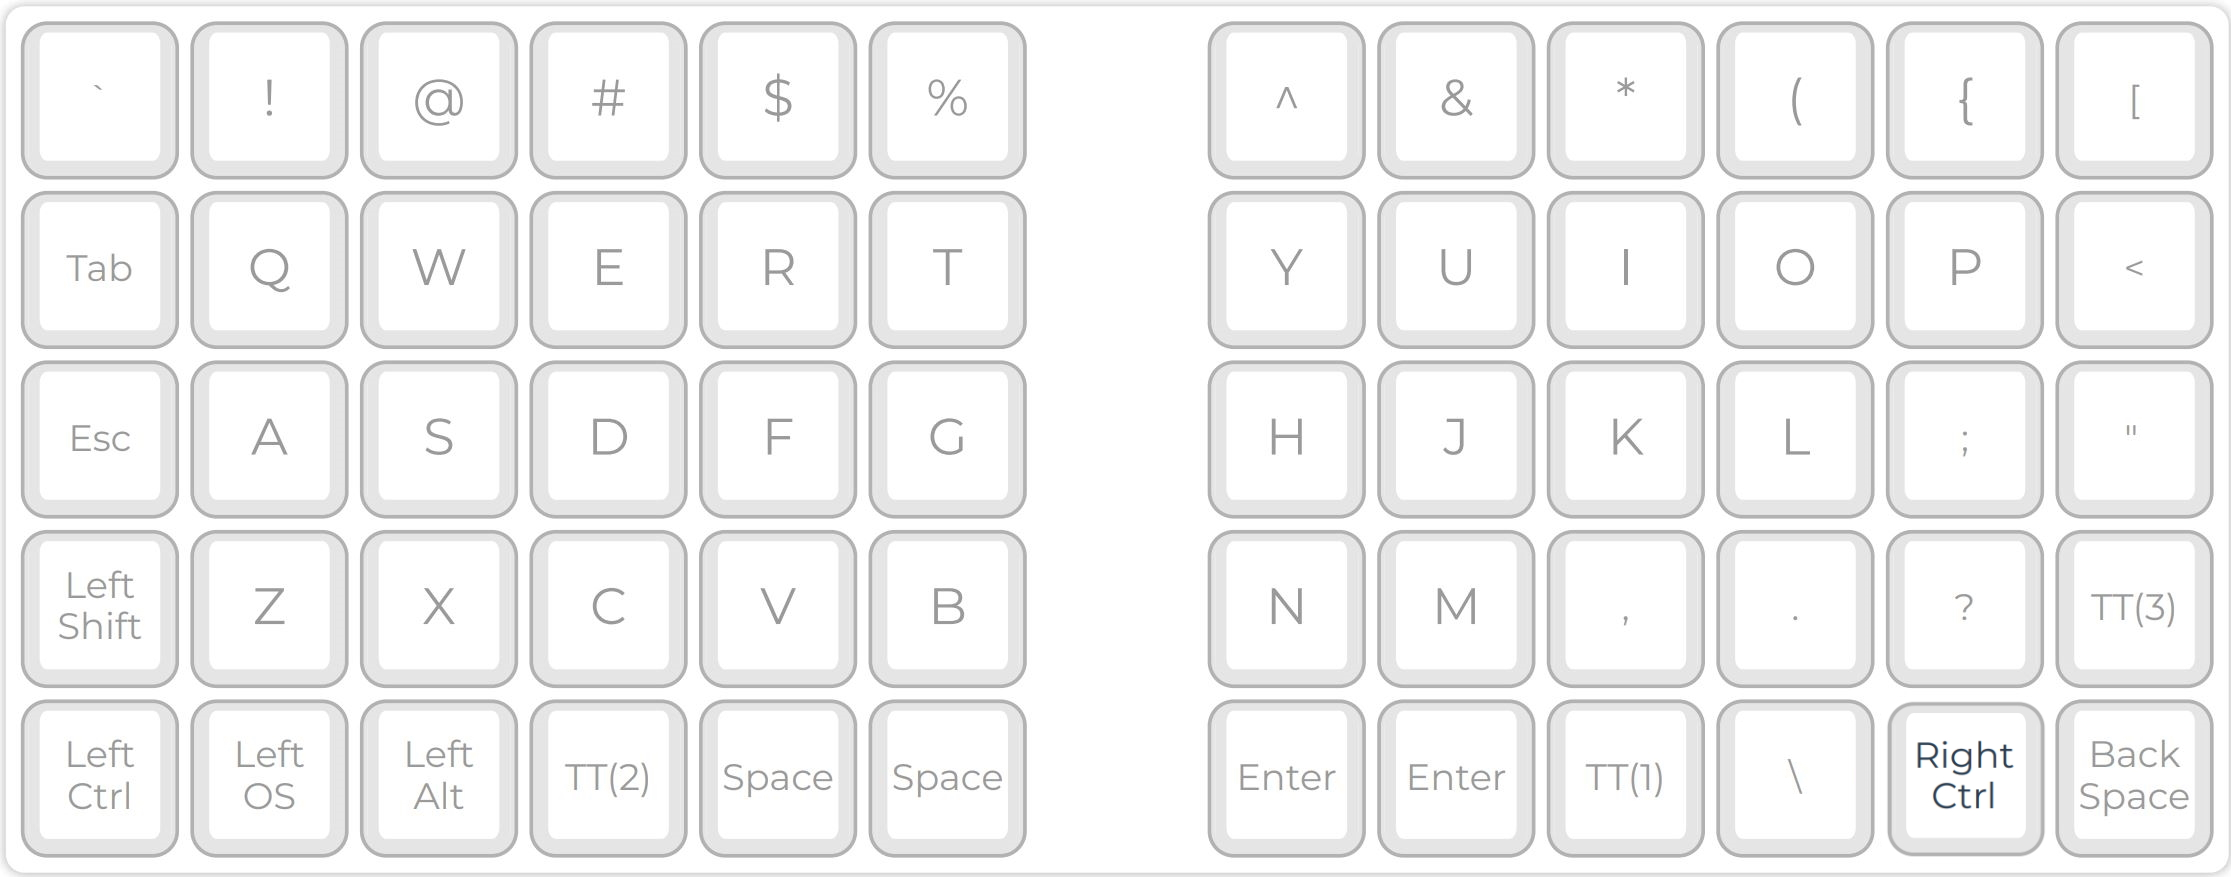
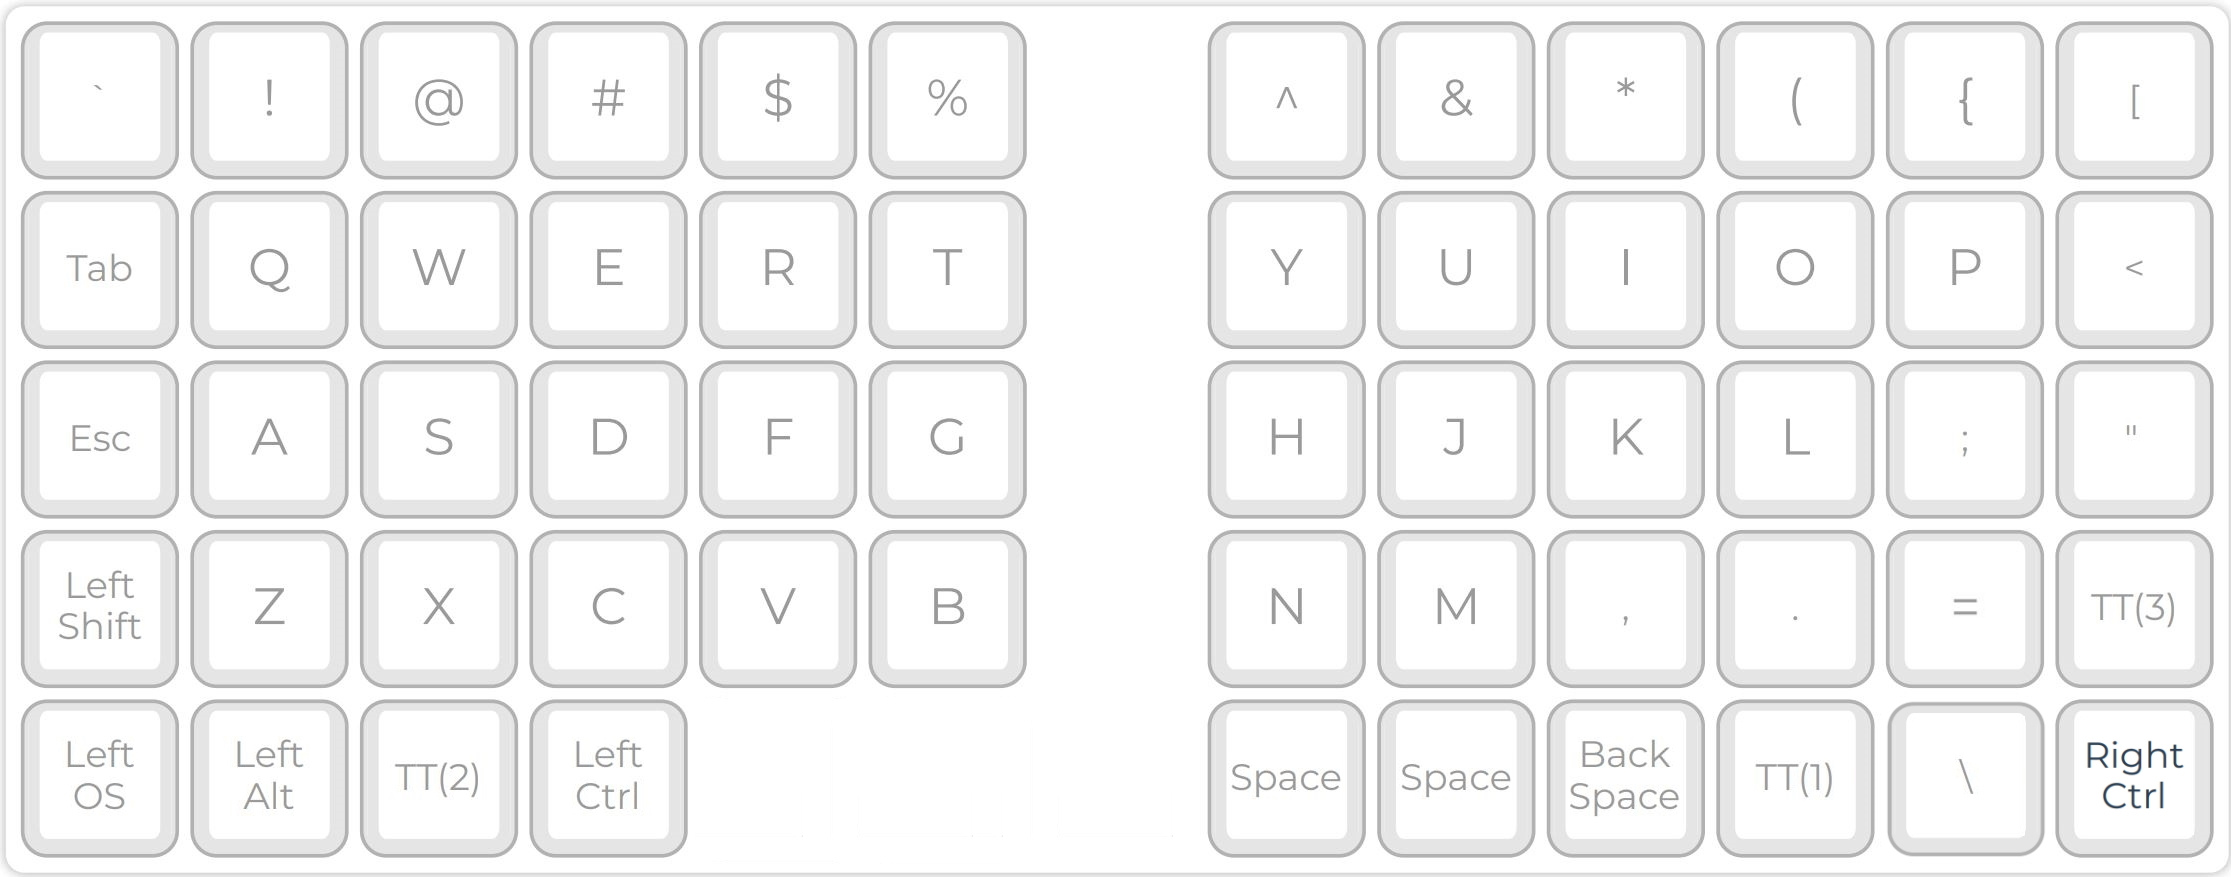
[Diary] Notes on release v1.1

diff --git a/qibord/captains_log/27-September-2020.md b/qibord/captains_log/27-September-2020.md
@@ -1,0 +1,41 @@
+# Notes
+
+It has been about a month since I started using the _qibord_ and a few design flaws start to show up already.
+
+I am still slower than on a regular keyboard but the overall ergonomics of it is awesome. I am not using it much since my Armenian layout is off and I have to switch to the old keyboard quite often, which is not that comfortable. I still use it daily thou. Here are some of the things that will be changed with the next major release.
+
+## Thumb motions are strained
+
+_qibord_ heavily relies on the thumb but with the current version, the motion of the thumb is mighty uncomfortable. The movement of the thumb is directed inwards right under the palm, which is hard. The outward motion, that is much easier, is not present at all. For the next version I plan to shift the keys on the lowest line towards each other and curve down so they can still be pressed by thumbs but via the outwards motion. The shape of it should roughly look something like this:
+
+![qibord_v2](images/qibord_v2.jpg)
+
+## The keys definitely need to be lubed
+
+They do, since currently you can feel too much mechanical resistance, which makes the key presses too cranky. This is not the key press experience, we have been fighting for!
+
+## The layout
+
+As I use the _qibord_, I get a better understanding of what keys need to be where. The layout has undergone one major update so far, and is available as [v1.1](../layouts/v1.1/layout.pdf).
+
+Two layers have been modified, along with the lowest rows on both sides.
+
+### The default layer
+
+I have moved the `=` key to the default row since it is impossible to comfortably code when the key has to be accessed via a **MOD** key. It replaced the `?` key, and the `?` key moved to the **NUMPAD** layer.
+
+Now it looks like this:
+
+![default_layer](../layers/default_layout.jpg)
+
+### The **NUMPAD** layer
+
+The numbers on this layer have been moved one column to the left so to create a 'safe area' between the number keys and the control column on the very left of the left plate.
+
+Now the layer looks like this:
+
+![layer2](../layers/numpad_and_symbols.jpg)
+
+### The command rows
+
+The lowest rows have been reorganized to move the most used keys closer to thumbs.

diff --git a/qibord/captains_log/toc.md b/qibord/captains_log/toc.md
@@ -7,3 +7,5 @@
 ## [13-September-2020](13-September-2020.md)
 
 ## [14-September-2020](14-September-2020.md)
+
+## [27-September-2020](27-September-2020.md)
